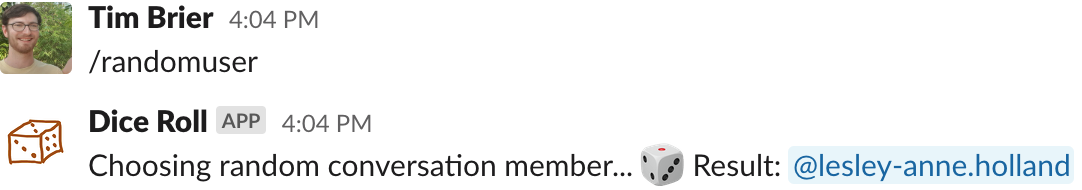
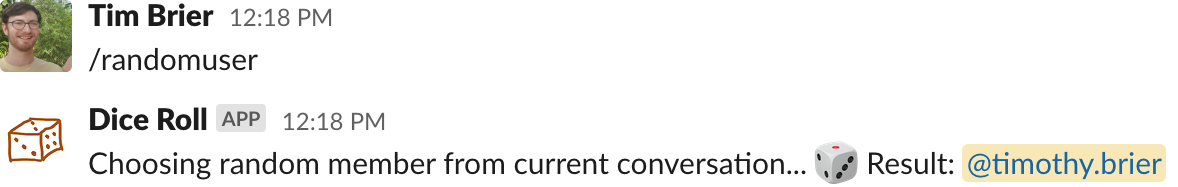
Add ability to choose random user from usergroup

Changed region(s): [[0.0, 0.5348, 1.0, 0.9893], [0.0, 0.0, 0.305, 0.4011]]

diff --git a/random-user.js b/random-user.js
@@ -1,21 +1,52 @@
 const slack = require('./slack.js')
+const utils = require('./utils.js')()
+
+const usergroupRegex = /^<!subteam\^([^\|]+)(\|.+)?>$/
 
 module.exports = {
     doCommand: async function(req, res) {
-        let channelId = req.body.channel_id
-        slack.getConversationMembers(
-            channelId, 
-            (members) => pickRandomMember(members, res), 
-            (error) => handleError(error, res)
-        )
+        let commandText = req.body.text
+        if (isEmpty(commandText)) {
+            pickRandomMemberFromCurrentConversation(req, res)
+        } else {
+            pickRandomMemberFromUsergroup(commandText, res)
+        }
     }
 }
 
-function pickRandomMember(userIds, res) {
+function pickRandomMemberFromCurrentConversation(req, res) {
+    let channelId = req.body.channel_id
+    slack.getConversationMembers(
+        channelId,
+        (members) => pickRandomMember("current conversation", members, res),
+        (error) => handleError(error, res)
+    )
+}
+
+function pickRandomMemberFromUsergroup(commandText, res) {
+    if (!isValid(commandText)) {
+        res.send(slack.buildPrivateResponse(`Input was not valid, give input in the form of @someusergroup. E.g /randomuser @someusergroup`))
+        return
+    }
+
+    let matches = usergroupRegex.exec(commandText)
+    let usergroupId = matches[1]
+    slack.getUsergroupMembers(
+        usergroupId,
+        (members) => pickRandomMember(`<!subteam^${usergroupId}>`, members, res),
+        (error) => handleError(error, res)
+    )
+}
+
+function isValid(commandText) {
+    return usergroupRegex.test(commandText)
+}
+
+function pickRandomMember(source, userIds, res) {
     let randomUserId = userIds[generateRandomIndexUpTo(userIds.length)]
     slack.getUserInfo(
         randomUserId,
-        (userInfo) => handleUserInfoSuccess(userInfo, userIds, res),
+        (userInfo) => handleUserInfoSuccess(source, userInfo, userIds, res),
         (error) => handleError(error, res)
     )
 }
@@ -25,18 +56,18 @@ function handleError(error, res) {
     if (error === 'channel_not_found') {
         suffix = '\nYou might need to add @dice_roll to the conversation'
     }
-    res.send(slack.buildPrivateResponse(`Error: ${error}${suffix}`))
+    res.send(slack.buildPrivateResponseWithParsingUsernames(`Error: ${error}${suffix}`))
 }
 
 function generateRandomIndexUpTo(maxExclusive) {
     return Math.floor(Math.random() * maxExclusive)
 }
 
-function handleUserInfoSuccess(userInfo, userIds, res) {
+function handleUserInfoSuccess(source, userInfo, userIds, res) {
     if (userInfo.is_bot) {
         let userIdsWithoutThisBot = userIds.filter((userId) => userId != userInfo.id)
         pickRandomMember(userIdsWithoutThisBot, res)
     } else {
-        res.send(slack.buildPublicResponse(`Choosing random conversation member... :game_die: Result: @${userInfo.name}`))
+        res.send(slack.buildPublicResponse(`Choosing random member from ${source}... :game_die: Result: <@${userInfo.id}>`))
     }
 }

diff --git a/slack.js b/slack.js
@@ -2,12 +2,17 @@ const request = require('request')
 
 const slackUrl = 'https://slack.com/api'
 const conversationMembersEndpoint = 'conversations.members'
+const userGroupUsersEndpoint = 'usergroups.users.list'
 const usersInfoEndpoint = 'users.info'
 const token = process.env.SLACK_TOKEN
 
 module.exports = {
     buildPrivateResponse: function(message) {
         return buildResponse(message, 'ephemeral')
+    },
+
+    buildPrivateResponseWithParsingUsernames: function(message) {
+        return buildResponse(message, 'ephemeral', 'full')
     },
 
     buildPublicResponse: function(message) {
@@ -19,17 +24,22 @@ module.exports = {
         get(url, (body) => successCallback(body.members), errorCallback)
     },
 
+    getUsergroupMembers: function(usergroupId, successCallback, errorCallback) {
+        let url = `${slackUrl}/${userGroupUsersEndpoint}?token=${token}&usergroup=${usergroupId}`
+        get(url, (body) => successCallback(body.users), errorCallback)
+    },
+
     getUserInfo: function(userId, successCallback, errorCallback) {
         let url = `${slackUrl}/${usersInfoEndpoint}?token=${token}&user=${userId}`
         get(url, (body) => successCallback(body.user), errorCallback)
     }
 }
 
-function buildResponse(message, responseType) {
+function buildResponse(message, responseType, parse = undefined) {
     return {
         'response_type': responseType,
         'text': message,
-        'parse': 'full'
+        'parse': parse
     }
 }
 

diff --git a/roll.js b/roll.js
@@ -1,4 +1,5 @@
 const slack = require('./slack.js')
+const utils = require('./utils.js')()
 
 const diceRegex = /^(\d+)d(\d+)$/
 const maxNumberOfDice = 100
@@ -46,10 +47,6 @@ module.exports = {
         let diceResults = rollAllDice(numDice, numSides)
         res.send(slack.buildPublicResponse(`Rolling... :game_die: Result${diceResults.length === 1 ? "" : "s"}: ${diceResults.join(", ")}`))
     }
-}
-
-function isEmpty(theString) {
-    return !theString || theString.length === 0
 }
 
 function isValid(diceInput) {

diff --git a/public/index.html b/public/index.html
@@ -28,6 +28,11 @@
 
         <img class="example" src="random-user-example.png" />
 
+        <p>Pick a random user from a usergroup</p>
+        <p><span class="mono">/randomuser @someusergroup</span></p>
+
+        <img class="example" src="random-user-from-group-example.png" />
+
         <h2>Privacy Policy</h2>
         <p>This bot does not log, store or share any user data.</p>
 

diff --git a/public/styles.css b/public/styles.css
@@ -5,7 +5,7 @@ body {
 }
 
 h2 {
-    margin-top: 50px;
+    margin-top: 30px;
 }
 
 .heading {
@@ -20,7 +20,7 @@ h2 {
 
 .example {
     height: 100px;
-    margin-bottom: 50px;
+    margin-bottom: 30px;
 }
 
 .mono {

diff --git a/utils.js b/utils.js
@@ -1,0 +1,5 @@
+module.exports = function() {
+    this.isEmpty = function(theString) {
+        return !theString || theString.length === 0
+    }
+}

diff --git a/README.md b/README.md
@@ -17,6 +17,10 @@ Hosted on Heroku at https://warm-depths-57943.herokuapp.com
 
    For private conversations the `@dice_roll` user will need to be added to the conversation
 
+3. Pick a random user from a usergroup
+
+   `/randomuser @someusergroup`
+
 ## Running locally
 
 1. Install dependencies
